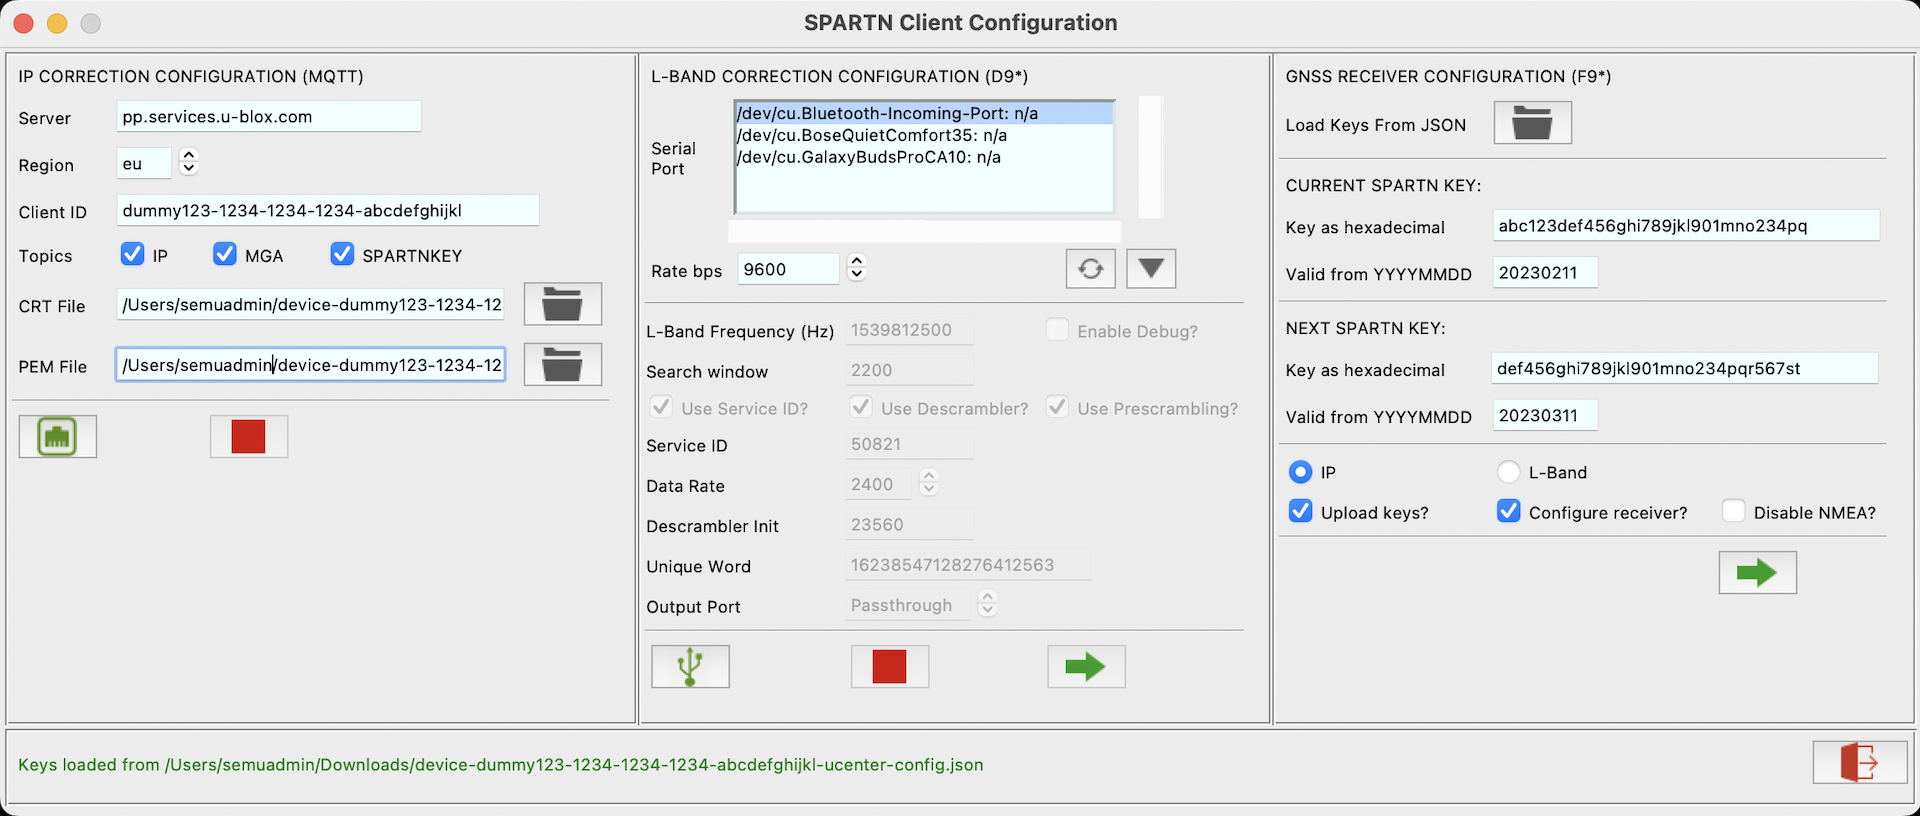
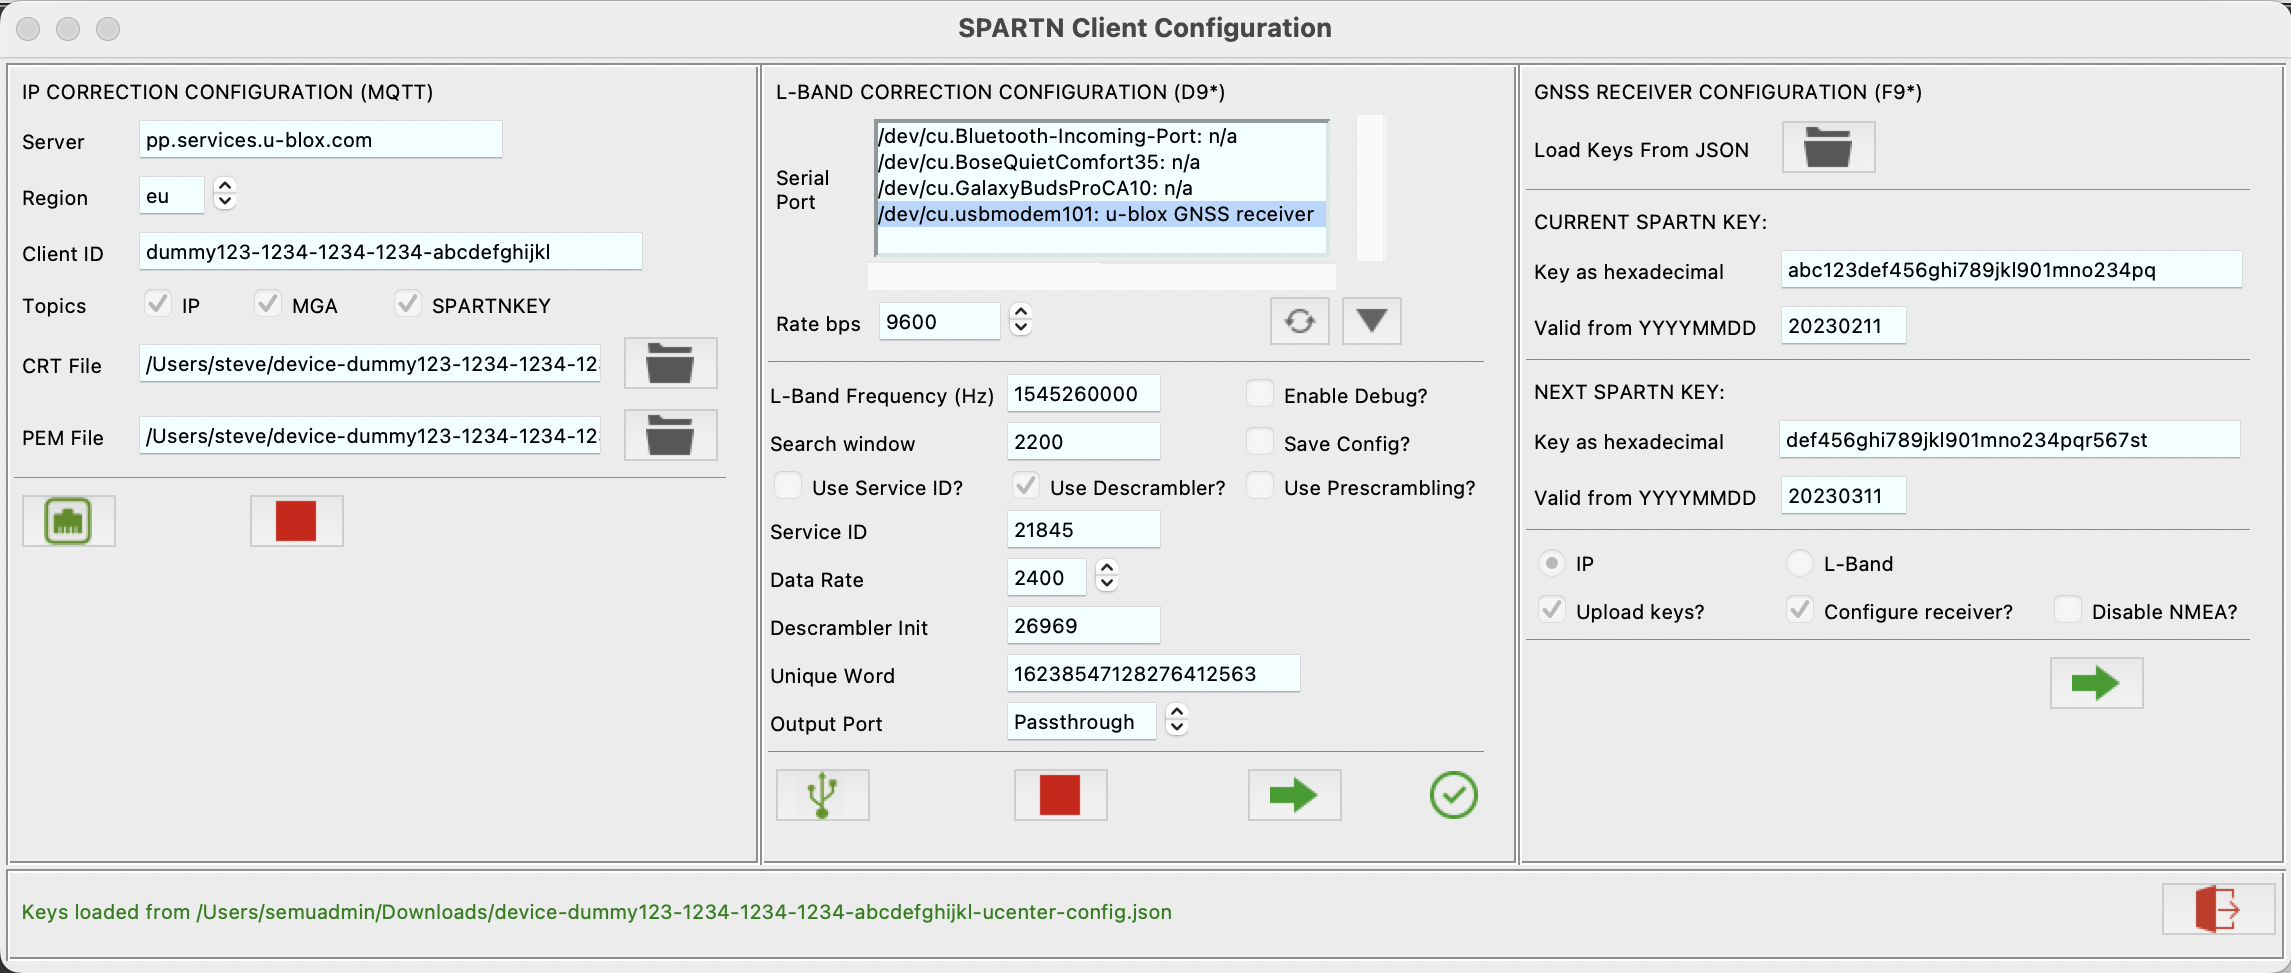
Add D9S save config facility Fixes #48

diff --git a/pygpsclient/spartn_lband_frame.py b/pygpsclient/spartn_lband_frame.py
@@ -29,6 +29,7 @@ from tkinter import (
 from PIL import ImageTk, Image
 from pyubx2 import (
     UBXMessage,
+    SET,
     TXN_NONE,
     SET_LAYER_RAM,
     POLL_LAYER_RAM,
@@ -141,7 +142,8 @@ class SPARTNLBANDDialog(Frame):
         self._spartn_descrminit = StringVar()
         self._spartn_unqword = StringVar()
         self._spartn_outport = StringVar()
-        self._spartn_enabledbg = IntVar()
+        self._enabledbg = IntVar()
+        self._saveconfig = IntVar()
         self._ports = INPORTS
         self._settings = {}
         self._connected = DISCONNECTED
@@ -177,7 +179,7 @@ class SPARTNLBANDDialog(Frame):
         self._chk_enabledbg = Checkbutton(
             self,
             text="Enable Debug?",
-            variable=self._spartn_enabledbg,
+            variable=self._enabledbg,
         )
         self._lbl_schwin = Label(self, text="Search window")
         self._ent_schwin = Entry(
@@ -187,6 +189,11 @@ class SPARTNLBANDDialog(Frame):
             state=NORMAL,
             relief="sunken",
             width=10,
+        )
+        self._chk_saveconfig = Checkbutton(
+            self,
+            text="Save Config?",
+            variable=self._saveconfig,
         )
         self._chk_usesid = Checkbutton(
             self,
@@ -289,7 +296,8 @@ class SPARTNLBANDDialog(Frame):
         self._ent_freq.grid(column=1, row=3, sticky=W)
         self._chk_enabledbg.grid(column=2, row=3, columnspan=2, sticky=W)
         self._lbl_schwin.grid(column=0, row=4, sticky=W)
-        self._ent_schwin.grid(column=1, row=4, columnspan=3, sticky=W)
+        self._ent_schwin.grid(column=1, row=4, sticky=W)
+        self._chk_saveconfig.grid(column=2, row=4, sticky=W)
         self._chk_usesid.grid(column=0, row=5, sticky=W)
         self._chk_descrm.grid(column=1, row=5, sticky=W)
         self._chk_prescram.grid(column=2, row=5, columnspan=2, sticky=W)
@@ -316,9 +324,9 @@ class SPARTNLBANDDialog(Frame):
         Reset configuration widgets.
         """
 
-        self._spartn_enabledbg.set(0)
+        self._enabledbg.set(0)
+        self._saveconfig.set(0)
         self._spartn_drat.set(PMP_DATARATES["B2400"])
-        self._spartn_freq.set(SPARTN_DEFAULT["freq"])
         self._spartn_freq.set(SPARTN_DEFAULT["freq"])
         self._spartn_schwin.set(SPARTN_DEFAULT["schwin"])
         self._spartn_usesid.set(SPARTN_DEFAULT["usesid"])
@@ -352,6 +360,7 @@ class SPARTNLBANDDialog(Frame):
             self._ent_unqword,
             self._ent_descraminit,
             self._chk_enabledbg,
+            self._chk_saveconfig,
             self._chk_descrm,
             self._chk_prescram,
             self._chk_usesid,
@@ -507,7 +516,7 @@ class SPARTNLBANDDialog(Frame):
         for port in INPORTS:
             cfgdata.append((f"CFG_MSGOUT_UBX_RXM_PMP_{port}", 1))
             cfgdata.append((f"CFG_{port}OUTPROT_UBX", 1))
-            if self._spartn_enabledbg.get():
+            if self._enabledbg.get():
                 cfgdata.append((f"CFG_INFMSG_UBX_{port}", b"\x1f"))
             else:
                 cfgdata.append((f"CFG_INFMSG_UBX_{port}", b"\x07"))
@@ -515,6 +524,25 @@ class SPARTNLBANDDialog(Frame):
             cfgdata.append(f"CFG_{outport}_BAUDRATE", int(self.serial_settings.bpsrate))
 
         msg = UBXMessage.config_set(SET_LAYER_RAM, TXN_NONE, cfgdata)
+        return msg
+
+    def _format_cfgcfg(self) -> UBXMessage:
+        """
+        Format UBX CFG-CFG command to persist configuration
+        to correction receiver's BBR / Flash / EEPROM memory.
+        """
+
+        msg = UBXMessage(
+            "CFG",
+            "CFG-CFG",
+            SET,
+            # clearMask=b"\x01\x00\x00\x00",
+            saveMask=b"\x1f\x1f\x00\x00",
+            # loadMask=b"\x01\x00\x00\x00",
+            devBBR=1,
+            devFlash=1,
+            devEEPROM=1,
+        )
         return msg
 
     def _on_send_config(self):
@@ -529,6 +557,11 @@ class SPARTNLBANDDialog(Frame):
         self._send_command(msg)
         self.__container.set_status(f"{CFGSET} command sent", "green")
         self._lbl_send.config(image=self._img_pending)
+
+        # save config to persistent memory
+        if self._saveconfig.get():
+            msg = self._format_cfgcfg()
+            self._send_command(msg)
 
         self._poll_config()
 
